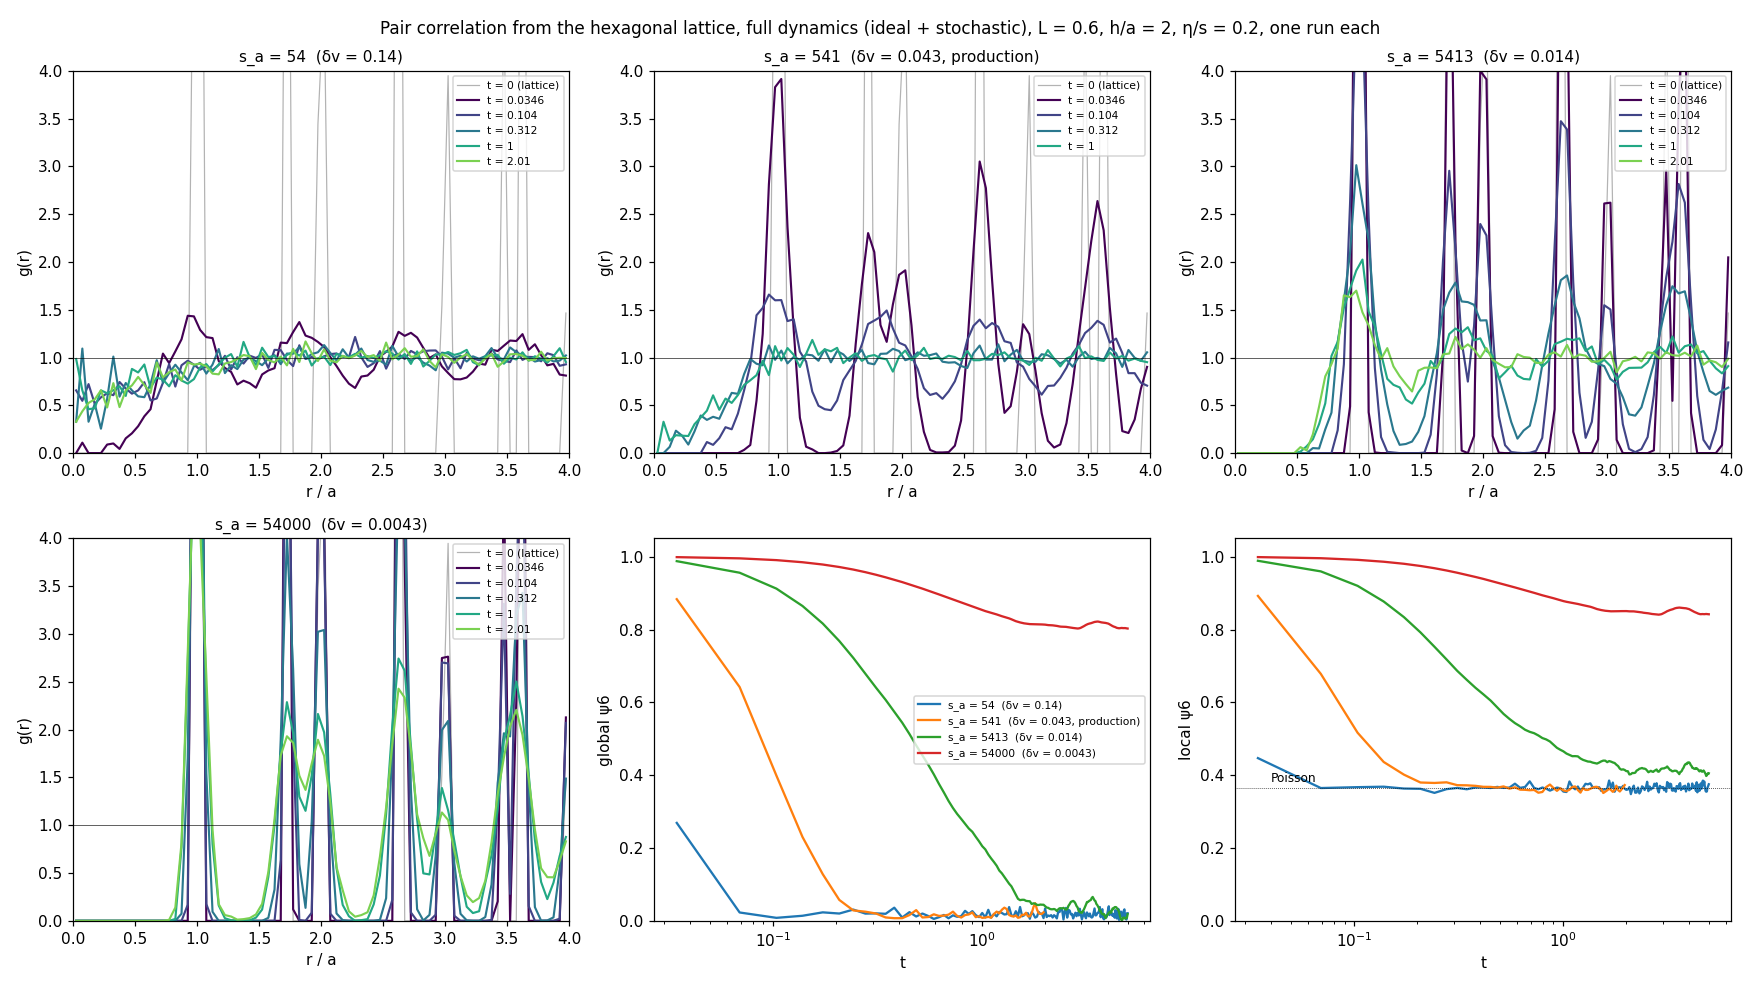
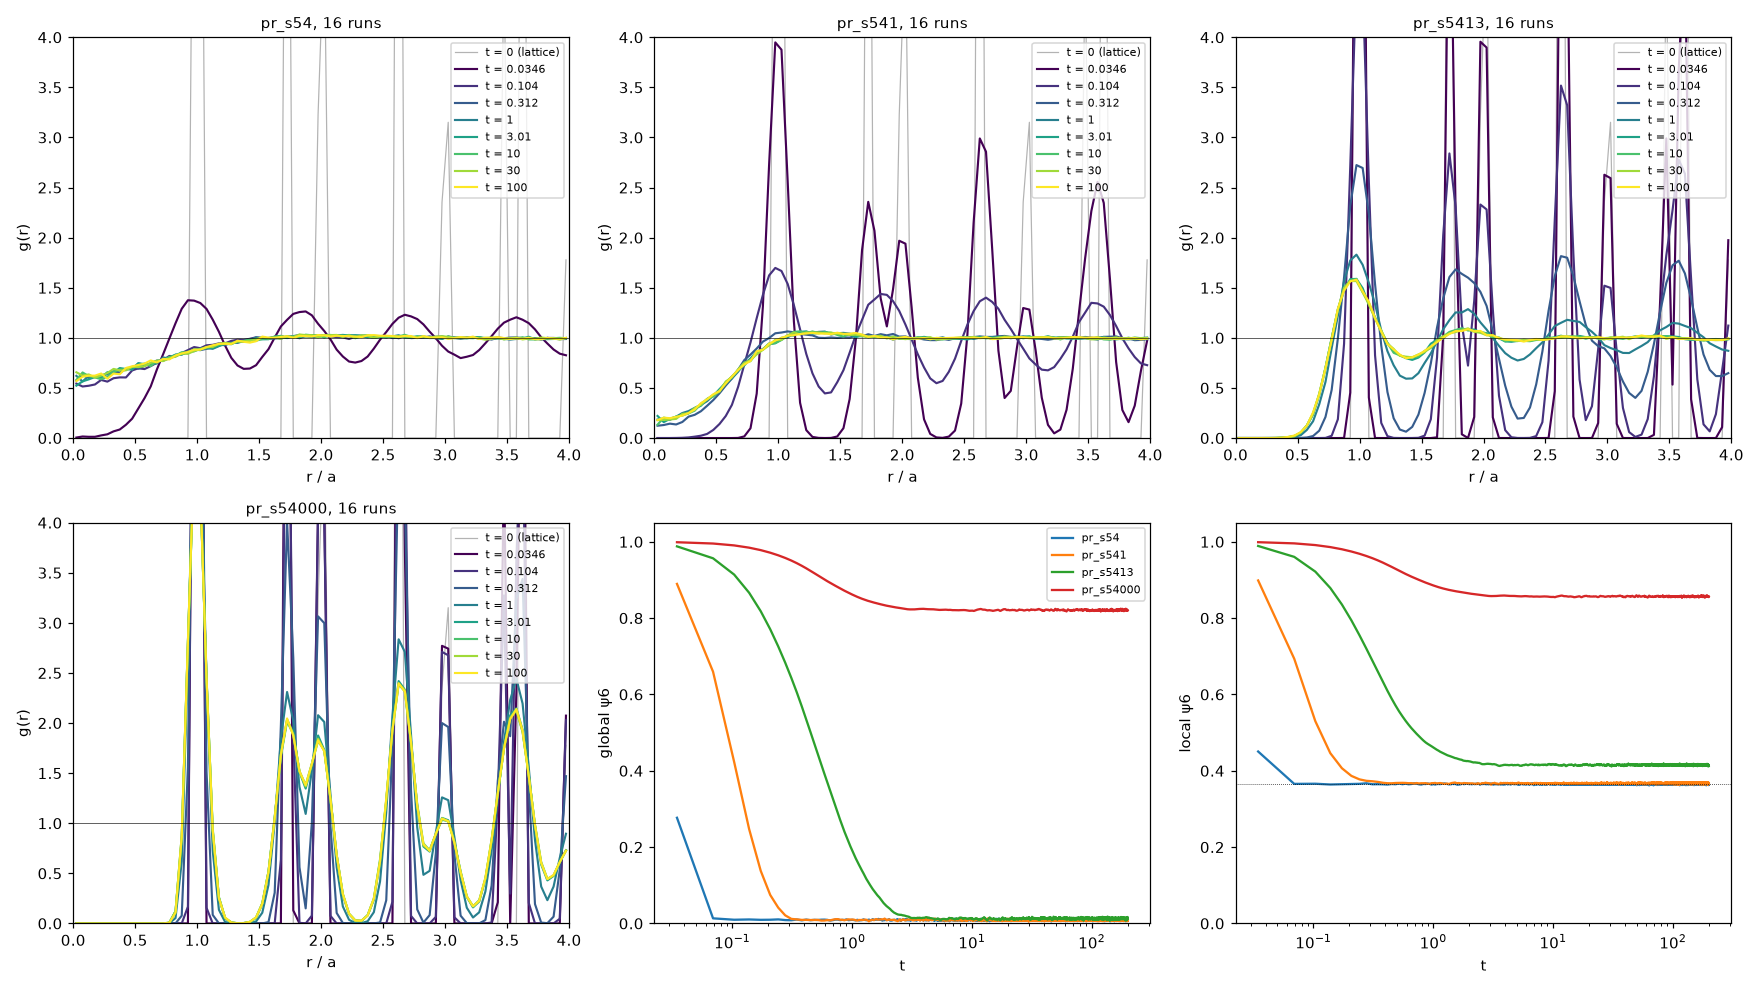
equilibrium_positions.tex: campaign pairs (16 runs per s_a, L = 1.2, t = 200) — melting times, ψ6, S(k) against 4/s_a, the figure; S(k) of the liquids still climbing at t = 200 (the dynamics/HMC gap is a slow relaxation); LOG

diff --git a/docs/equilibrium_positions.tex b/docs/equilibrium_positions.tex
@@ -300,38 +300,42 @@ At $h/a=2$, $L=1.2$, at $\delta v=0.043$ and $0.14$ (production), $0.014$ (liqui
 
 Stage 1 of \Sect{sec:plan} records $g(r)$, $\psi_6$ and $S(\bm k)$ in every run of the equilibrium driver.  All runs here use the
 one-kernel viscous step (\texttt{SPH\_DISSIPATION=common}, the default on this branch) and the particle ideal step.
-\Fig{fig:gvt} shows one run at each of four entropies per particle, $L=0.6$ ($N=672$), $h/a=2$, $\eta/s=0.2$, at rest, with the
-full dynamics from the hexagonal lattice (the present start: exact energies and momenta at the lattice positions).  The
+\Fig{fig:gvt} shows the campaign \texttt{pairs} (\texttt{nersc/campaign\_pairs.txt}, job 61289130): 16 runs at each of four
+entropies per particle, $L=1.2$ ($N=2688$), $h/a=2$, $\eta/s=0.2$, at rest, $t=200$, with the full dynamics (default one-kernel
+viscous step) from the hexagonal lattice (the present start: exact energies and momenta at the lattice positions).  The
 time is the physical time of the run; the time step is $8.66\times10^{-3}$, and sound crosses one particle spacing in
 \st
 \frac a{c_s}\approx0.043 .
 \stp
 \begin{center}
-\begin{tabular}{lcccc}
+\begin{tabular}{lccccc}
 \hline
-$s_a$ ($\delta v$) & melted by & global $\psi_6$ & local $\psi_6$ & $S(\bm k)$, $kh=0.5$--$1.5$ \\ \hline
-$54$ ($0.14$) & $t\approx0.05$ & $0.02$ & $0.37$ & $\sim10^{-1}$ \\
-$541$ ($0.043$, production) & $t\approx0.2$ & $0.02$ & $0.37$ & $\sim10^{-2}$ \\
-$5413$ ($0.014$) & $t\approx2$ & $0.02$ & $0.41$ & $\sim10^{-3}$ \\
-$54000$ ($0.0043$) & solid at $t=5$ & $0.80$ & $0.84$ & $\sim10^{-4}$ \\
+$s_a$ ($\delta v$) & melted by & global $\psi_6$ & local $\psi_6$ & $S(\bm k)$, $kh=0.5$--$1.5$ & $S/(4/s_a)$ \\ \hline
+$54$ ($0.14$) & $t\approx0.07$ & $0.009$ & $0.365$ & $0.176(3)$ & $2.4$ \\
+$541$ ($0.043$, production) & $t\approx0.21$ & $0.009$ & $0.367$ & $0.0250(5)$ & $3.4$ \\
+$5413$ ($0.014$) & $t\approx1.5$ & $0.013$ & $0.415$ & $1.56(4)\times10^{-3}$ & $2.1$ \\
+$54000$ ($0.0043$) & solid to $t=200$ & $0.821$ & $0.857$ & $1.06(3)\times10^{-4}$ & $1.4$ \\
 \hline
 \end{tabular}
 \end{center}
 \begin{itemize}
 \item \emph{The solid--liquid boundary} lies between $s_a\approx5\times10^3$ and $5\times10^4$ at $h/a=2$, where \texttt{frozen.tex} placed it.
   Both production entropies are well inside the liquid, and closer to the boundary the lattice takes longer to melt.
-\item \emph{The long-wavelength density fluctuations} fall by a factor of about $10$ per decade of $s_a$, $1.5$--$2$ times above
-  the estimate $S\sim4/s_a$ of \Sect{sec:liquid}: an incompressible particle liquid.
+\item \emph{The long-wavelength density fluctuations} fall by a factor of about $10$ per decade of $s_a$, $2$--$3.4$ times above
+  the estimate $S\sim4/s_a$ of \Sect{sec:liquid} in the liquid at $t>100$ ($1.4$ times in the solid): an incompressible particle
+  liquid.  In the liquid they are still growing at $t=200$ (\Sect{sec:hmcvsdyn}).
 \item \emph{Little local order in the liquid.}  The local $\psi_6$ of the liquids is at its value for Poisson positions
   ($0.365$); at the production entropies $g(r)$ has only a weak first peak, and particles come well within $a$ of each other.
   Local structure appears only near melting.
 \end{itemize}
-Single runs in a small box; campaign \texttt{pairs} (16 runs each, $L=1.2$, $t=200$) will replace the figure.  Whether the
-relaxed state is the equilibrium of \Eq{Px} is the question for hybrid Monte Carlo.
+Melting time: the first time the mean global $\psi_6$ falls below $0.1$; $\psi_6$ and $S(\bm k)$ averaged over $t>100$ and the 16 runs ($S$ over the 18
+box modes with $0.5<kh<1.5$; standard error over the runs).  The single runs at $L=0.6$ of the first look gave the same
+picture.  The $s_a=54$ runs did not blow up: all reached $t=200$ ($\Delta H/H\approx4\times10^{-2}$, some proposals rejected for $|v|\ge1$).
+Whether the relaxed state is the equilibrium of \Eq{Px} is the question for hybrid Monte Carlo (\Sect{sec:hmcvsdyn}).
 
 \begin{figure}[t]
 \includegraphics[width=\textwidth]{figs/equilibrium_g_vs_t.png}
-\caption{The pair correlation from the hexagonal lattice, full dynamics, $L=0.6$, $h/a=2$, $\eta/s=0.2$, one run per entropy.
+\caption{The pair correlation from the hexagonal lattice, full dynamics, $L=1.2$, $h/a=2$, $\eta/s=0.2$, 16 runs per entropy (campaign \texttt{pairs}).
 Panels 1--4: $g(r)$ at a sequence of times (grey: the lattice at $t=0$).  Panels 5, 6: global and local $\psi_6$ against time
 (dotted: the local value for Poisson positions).}
 \label{fig:gvt}
@@ -370,6 +374,25 @@ changes it, slowly.  Hybrid Monte Carlo redraws the $s_a$ at every update.  The 
 campaign \texttt{pairs} ($t=200$, $L=1.2$) will show whether $|N_{\bm k}|^2$ of the dynamics climbs to the equilibrium value or
 stays low.  If it stays low, the dynamics carries a long-wavelength non-equilibrium in the arrangement of the particles, to be
 compared with the equal-time deficit of $C_{EE}$ along the flow (\texttt{commonkernel.tex}).
+
+\paragraph{What campaign \texttt{pairs} shows.}  $S(\bm k)$ of the positions at $kh=0.52$ (two modes), 16 runs, in units of $4/s_a$, in time windows:
+\begin{center}
+\begin{tabular}{lcccccc}
+\hline
+$s_a$ & $t=0.5$--$2$ & $2$--$5$ & $5$--$20$ & $20$--$50$ & $50$--$100$ & $100$--$200$ \\ \hline
+$54$ & $1.28(14)$ & $1.50(16)$ & $2.03(16)$ & $3.00(26)$ & $2.50(19)$ & $2.90(19)$ \\
+$541$ & $1.42(20)$ & $1.45(16)$ & $1.82(18)$ & $2.30(23)$ & $3.26(35)$ & $3.91(44)$ \\
+$5413$ & $1.25(27)$ & $1.23(23)$ & $1.37(16)$ & $1.42(14)$ & $1.57(14)$ & $1.92(18)$ \\
+$54000$ (solid) & $1.43(31)$ & $1.38(33)$ & $1.45(30)$ & $1.36(19)$ & $1.42(17)$ & $1.43(18)$ \\
+\hline
+\end{tabular}
+\end{center}
+(the same at $kh=0.79$).  In the liquids the long-wavelength number fluctuations climb, slowly: by a factor of $2.8$ over
+$t=200$ at $s_a=541$ and $1.5$ at $5413$, still rising at the end; only at $s_a=54$ do they level off, by $t\approx20$--$50$.  In the
+solid they stay flat.  The low values of the dynamics against hybrid Monte Carlo at $t\le5$ are thus mostly a slow
+relaxation, not yet complete at $t=200$ for $s_a\ge541$ --- as the tentative reading above expects, if the sharing of a
+long-wavelength fluctuation between the number of particles and the entropy per particle changes only through the
+stochastic step.
 
 \begin{figure}[t]
 \includegraphics[width=\textwidth]{figs/equilibrium_hmc_vs_dynamics.png}

diff --git a/nersc/LOG.md b/nersc/LOG.md
@@ -57,6 +57,12 @@ unchanged (test suite on the laptop: all pass; regression against common-default
    text of Sect. "First look" in docs/equilibrium_positions.tex with the averaged numbers (melting time, ψ6, first
    peak, S(k) against 4/s_a), commit on `equilibrium` and push.  Report the job, cost and outcome in this log.
 
+**Done (2026-11-14, NERSC):** worktree `~/stochastic-sph-eq` at `f682251`; `test/testpairs.jl` PASS.  Campaign `pairs` job
+**61289130** (1 node, THREADS=2, 15 min, 0.25 node-hours, 64/64 complete; the s_a = 54 runs reached t = 200, ΔH/H ≈ 4e-2).
+Melting (global ψ6 < 0.1) by t ≈ 0.07, 0.21, 1.5 at s_a = 54, 541, 5413; s_a = 54000 stays solid (ψ6 0.82).  Liquid local
+ψ6 = the Poisson value; S(k), kh 0.5-1.5, t > 100 = 2.4, 3.4, 2.1 × 4/s_a (solid 1.4).  In the liquids S(k) at kh = 0.52
+is still climbing at t = 200 (×2.8 at s_a = 541): the low dynamics/HMC ratio is a slow relaxation (equilibrium_positions.tex).
+
 ## Earlier: start here, common-default (written 2026-11-14, on the laptop)
 
 **The default viscous step changes to the one-kernel step** (`SPH_DISSIPATION=common`, docs/commonkernel.tex) on
